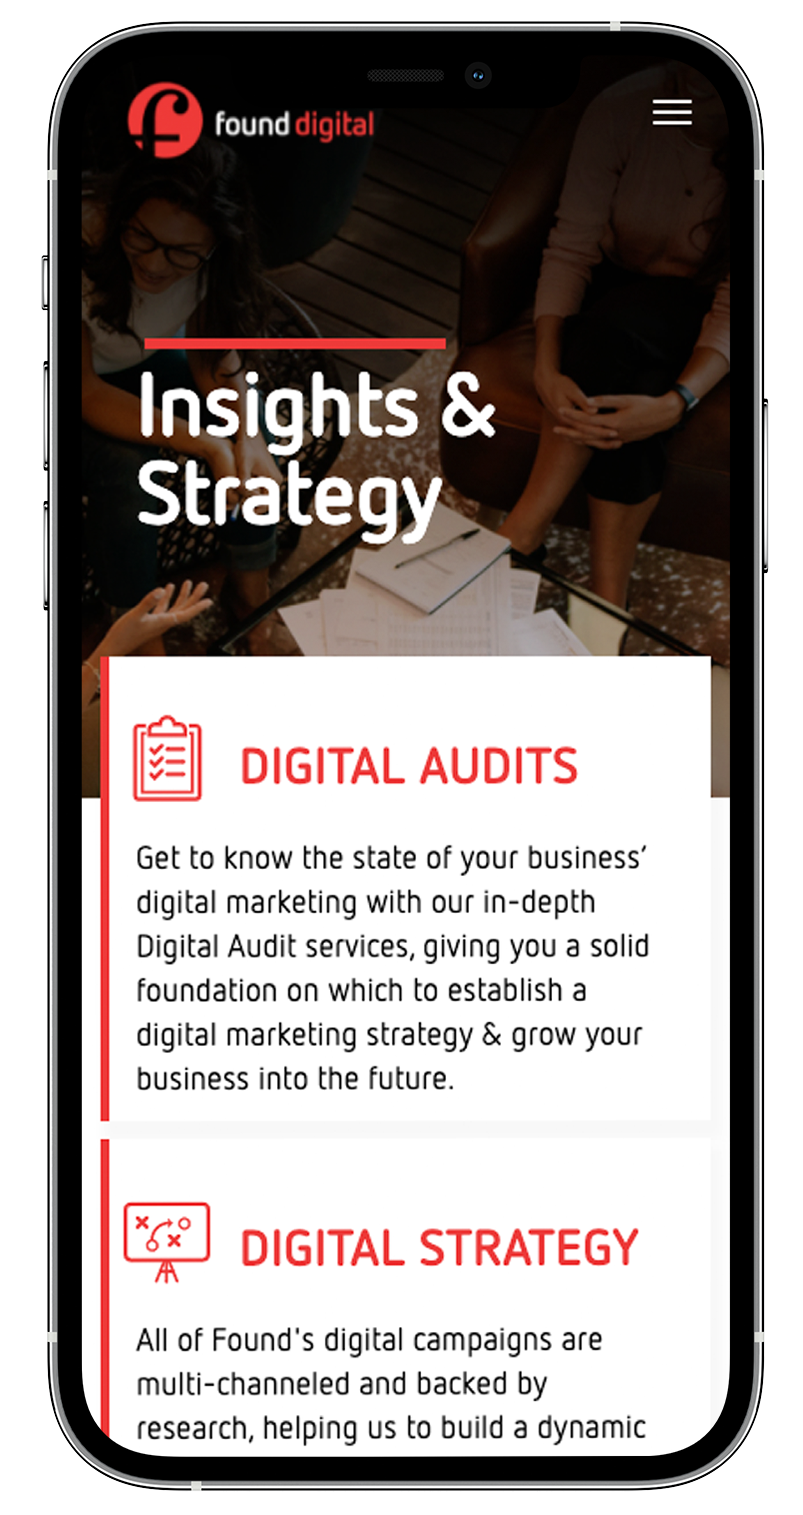
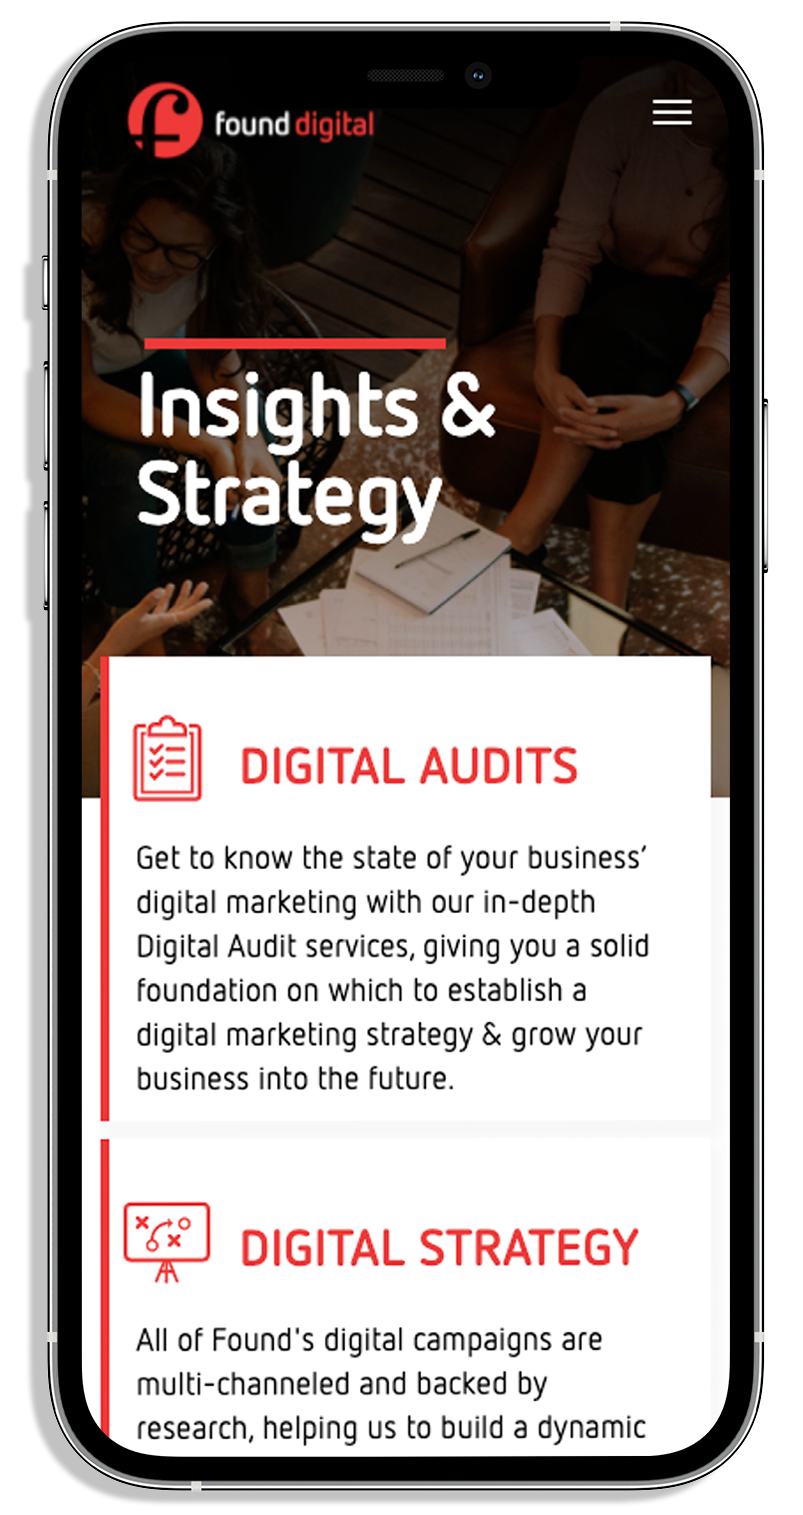
szdg

Changed region(s): [[0.0311, 0.062, 0.8717, 0.9927], [0.0623, 0.031, 0.0934, 0.062]]

diff --git a/founddigital.html b/founddigital.html
@@ -74,7 +74,7 @@
     <div>
       <div class="container px-5">
 
-        <img src="found-home-page.jpg" class="img-fluid shadow-lg mb-4" alt="Example image" width="700" height="500" loading="lazy">
+        <img src="found-home-page.jpg" class="img-fluid mb-4" alt="Example image" width="600" height="400" loading="lazy">
 
       </div>
     </div>
